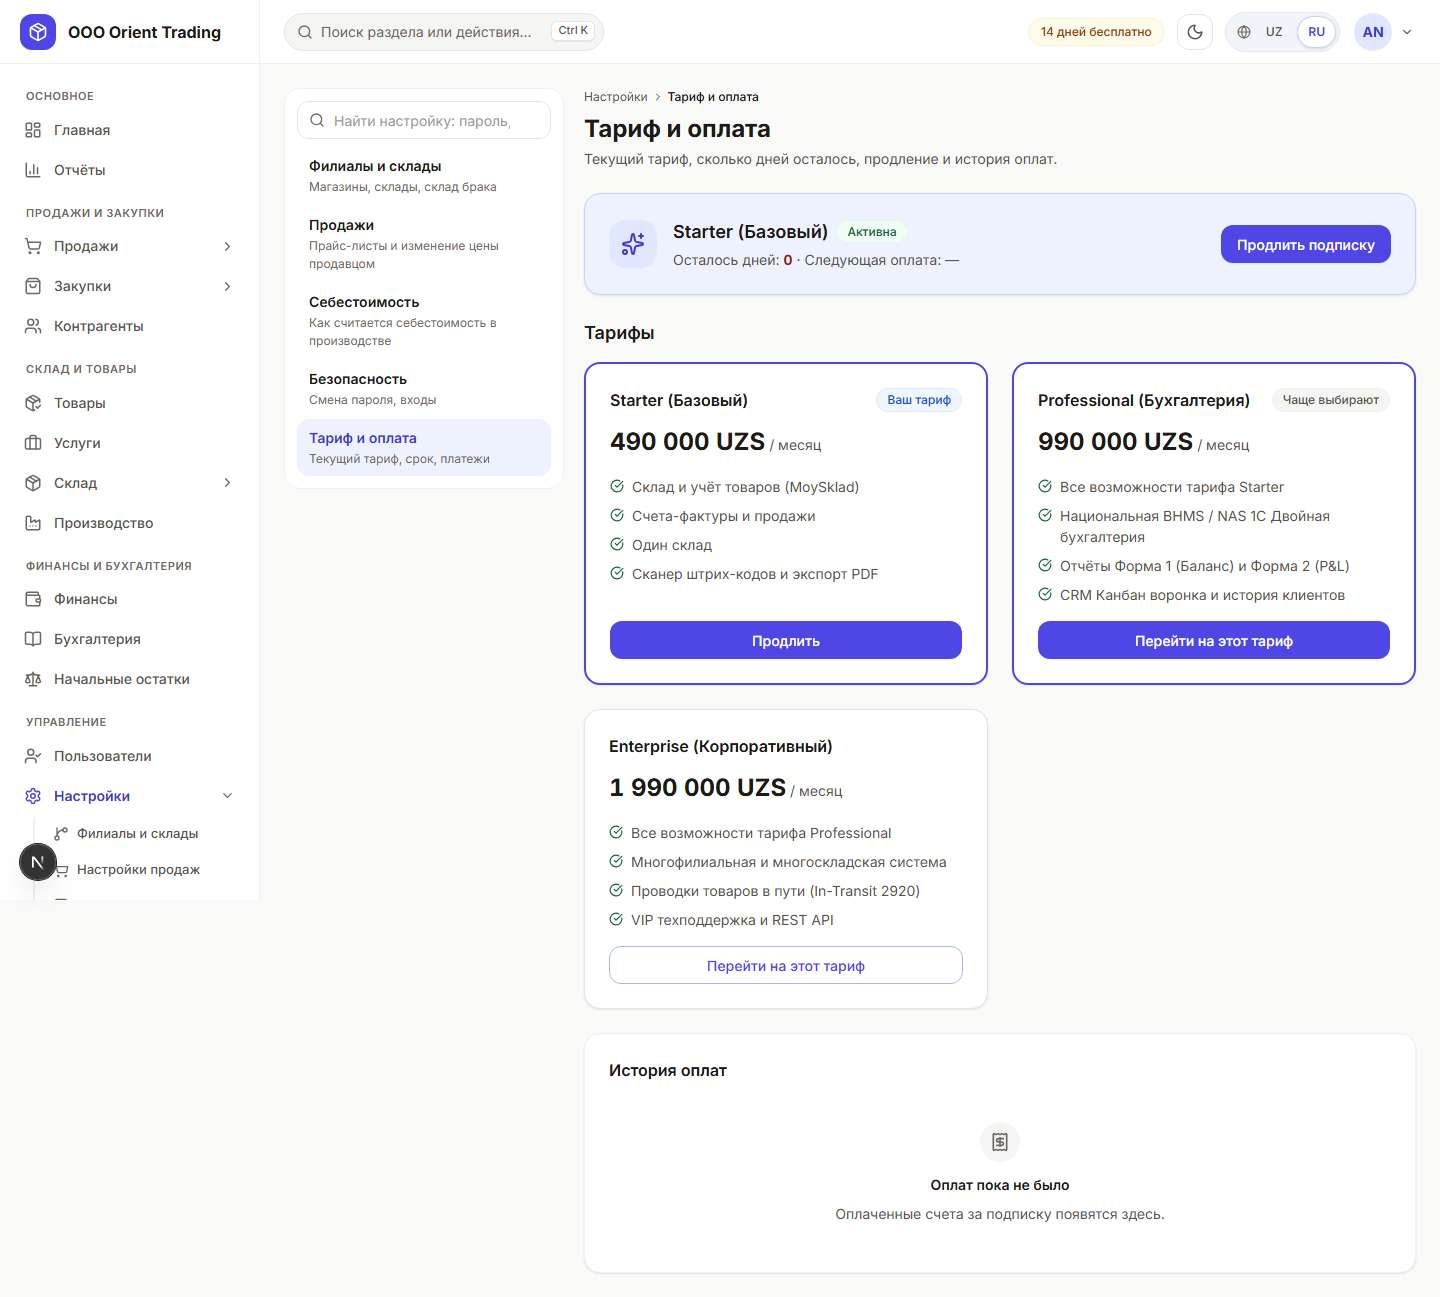
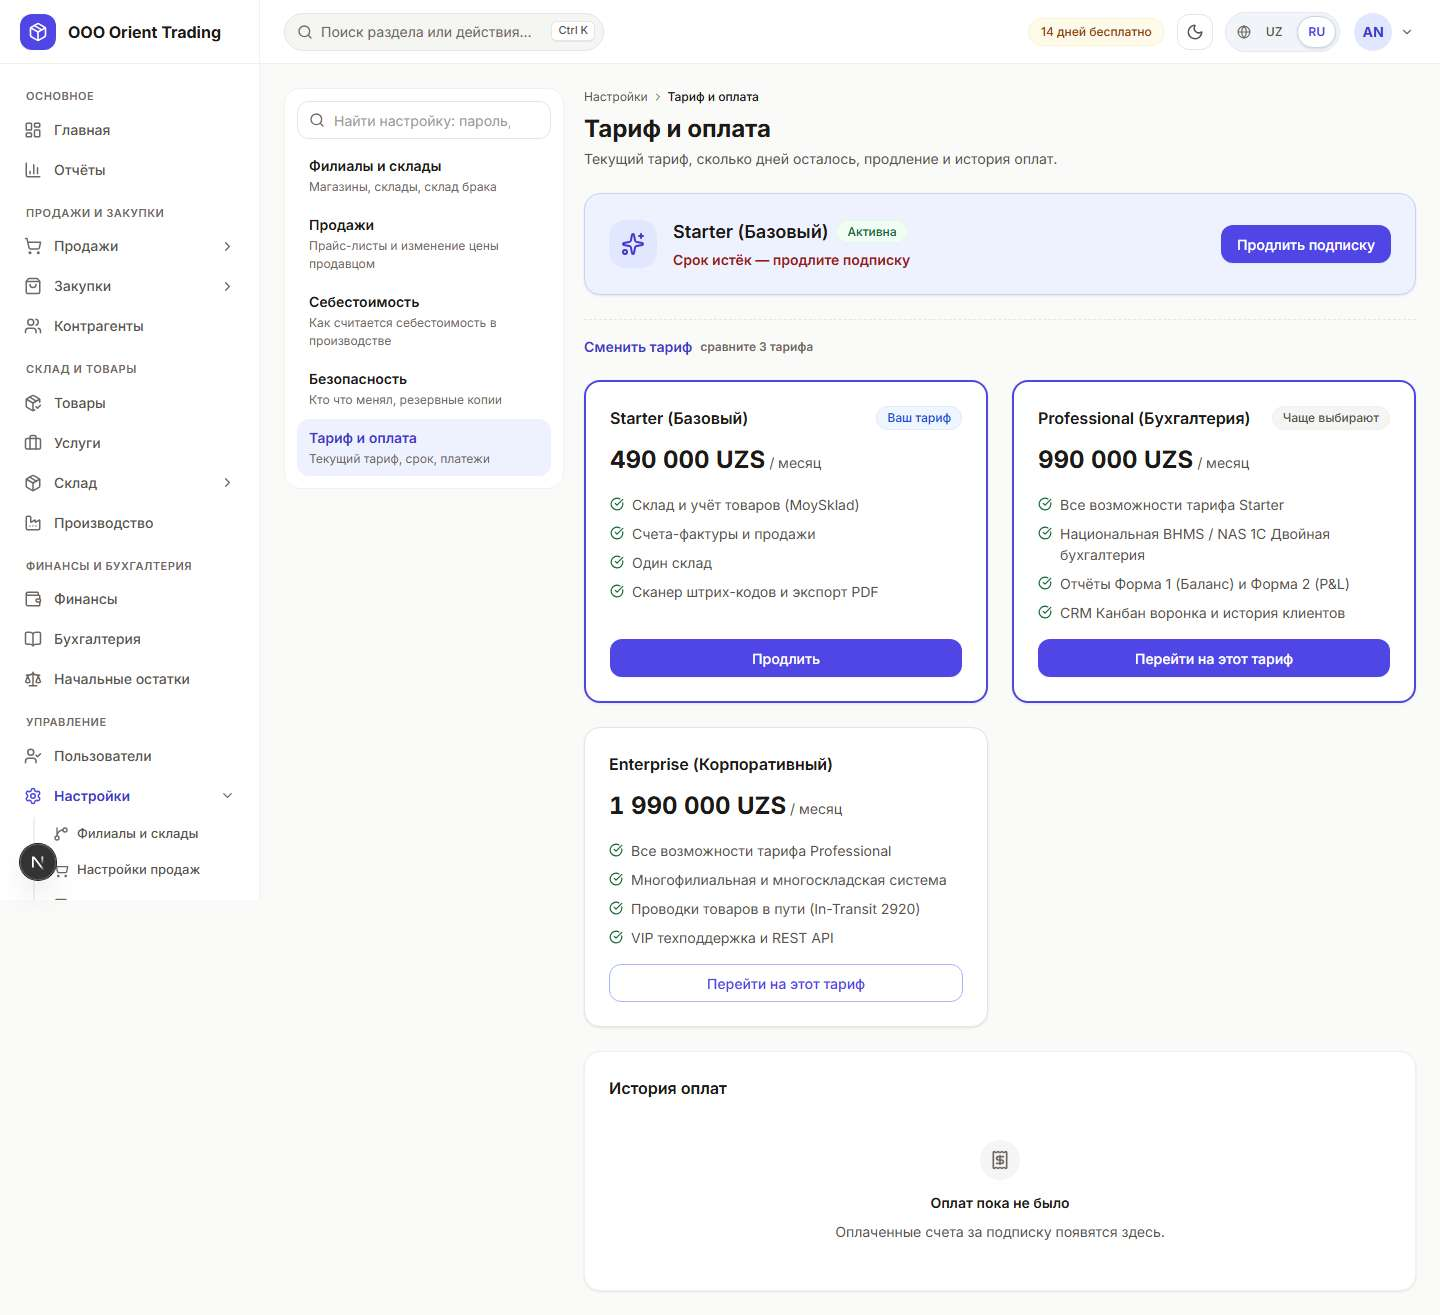
feat(ux): billing — subscription status as a sentence, plans folded under "Change plan" until a week is left
- "12 days left · next payment 01.12.2026" / "Term ended — renew"
  replaces "Days left: 0 · Next payment: —"; red when 3 days or less.
- The three plan cards sit under "Change plan — compare 3 plans"; it
  opens by itself when 7 days or less remain or the term is unknown.

diff --git a/frontend/src/app/[locale]/(dashboard)/settings/billing/page.tsx b/frontend/src/app/[locale]/(dashboard)/settings/billing/page.tsx
@@ -1,7 +1,7 @@
 'use client';
 
 import { useState } from 'react';
-import { useLocale } from 'next-intl';
+import { useLocale, useTranslations } from 'next-intl';
 import { useAuth } from '@/context/AuthContext';
 import { apiFetch } from '@/lib/api';
 import { useApiQuery } from '@/lib/query/useApiQuery';
@@ -66,6 +66,11 @@ export default function BillingSettingsPage() {
     return p ? p.name[locale] || p.name.uz : id ?? '—';
   };
   const selectedPlan = plans.find((p) => p.id === selectedPlanId);
+  const tb = useTranslations('rd.billing');
+  const daysLeft = subStatus?.daysRemaining ?? null;
+  // Plans stay folded while the subscription has time left; open when a week or less remains.
+  const [plansToggled, setPlansOpen] = useState<boolean | null>(null);
+  const plansOpen = plansToggled ?? (daysLeft == null || daysLeft <= 7);
   const status = subStatus ? STATUS[subStatus.status] : undefined;
 
   const handleStartCheckout = (planId: PlanId) => {
@@ -131,14 +136,9 @@ export default function BillingSettingsPage() {
                       <Badge variant={status?.variant ?? 'neutral'}>{status ? (isRu ? status.ru : status.uz) : subStatus.status}</Badge>
                     )}
                   </div>
-                  <p style={{ fontSize: 'var(--text-sm)', color: 'var(--color-text-secondary)', marginTop: 4 }}>
-                    {isRu ? 'Осталось дней: ' : 'Qolgan kunlar: '}
-                    <strong className="tabular-nums" style={{ color: (subStatus?.daysRemaining ?? 0) <= 3 ? 'var(--color-error-700)' : 'var(--color-text-primary)' }}>
-                      {subStatus?.daysRemaining ?? 0}
-                    </strong>
-                    {' · '}
-                    {isRu ? 'Следующая оплата: ' : 'Keyingi to‘lov: '}
-                    {subStatus?.nextBillingAt ? formatDate(subStatus.nextBillingAt, locale) : '—'}
+                  <p style={{ fontSize: 'var(--text-sm)', color: daysLeft != null && daysLeft <= 3 ? 'var(--color-error-700)' : 'var(--color-text-secondary)', marginTop: 4, fontWeight: daysLeft != null && daysLeft <= 3 ? 'var(--font-semibold)' : undefined }}>
+                    {daysLeft == null ? tb('daysUnknown') : daysLeft <= 0 ? tb('ended') : tb('daysLeft', { count: daysLeft })}
+                    {subStatus?.nextBillingAt ? ` · ${tb('nextPayment', { date: formatDate(subStatus.nextBillingAt, locale) })}` : ''}
                   </p>
                 </div>
               </div>
@@ -148,10 +148,12 @@ export default function BillingSettingsPage() {
             </div>
           </Card>
 
-          <section aria-labelledby="plans-heading">
-            <h2 id="plans-heading" style={{ fontSize: 'var(--text-lg)', fontWeight: 'var(--font-semibold)', marginBottom: 'var(--space-4)' }}>
-              {isRu ? 'Тарифы' : 'Tariflar'}
-            </h2>
+          <details className="doc-more" open={plansOpen} onToggle={(e) => setPlansOpen((e.currentTarget as HTMLDetailsElement).open)}>
+            <summary>
+              <span id="plans-heading" style={{ fontWeight: 'var(--font-semibold)' }}>{tb('changePlan')}</span>
+              <span className="rd-sub" style={{ display: 'inline', marginLeft: 8 }}>{tb('changePlanHint', { count: plans.length })}</span>
+            </summary>
+            <div style={{ paddingTop: 'var(--space-4)' }}>
             <div style={{ display: 'grid', gridTemplateColumns: 'repeat(auto-fit, minmax(min(100%, 280px), 1fr))', gap: 'var(--space-6)' }}>
               {plans.map((plan) => {
                 const current = plan.id === subStatus?.plan;
@@ -197,7 +199,8 @@ export default function BillingSettingsPage() {
                 );
               })}
             </div>
-          </section>
+            </div>
+          </details>
 
           <Card>
             <h2 style={{ fontSize: 'var(--text-base)', fontWeight: 'var(--font-semibold)', marginBottom: 'var(--space-4)' }}>{isRu ? 'История оплат' : 'To‘lovlar tarixi'}</h2>
